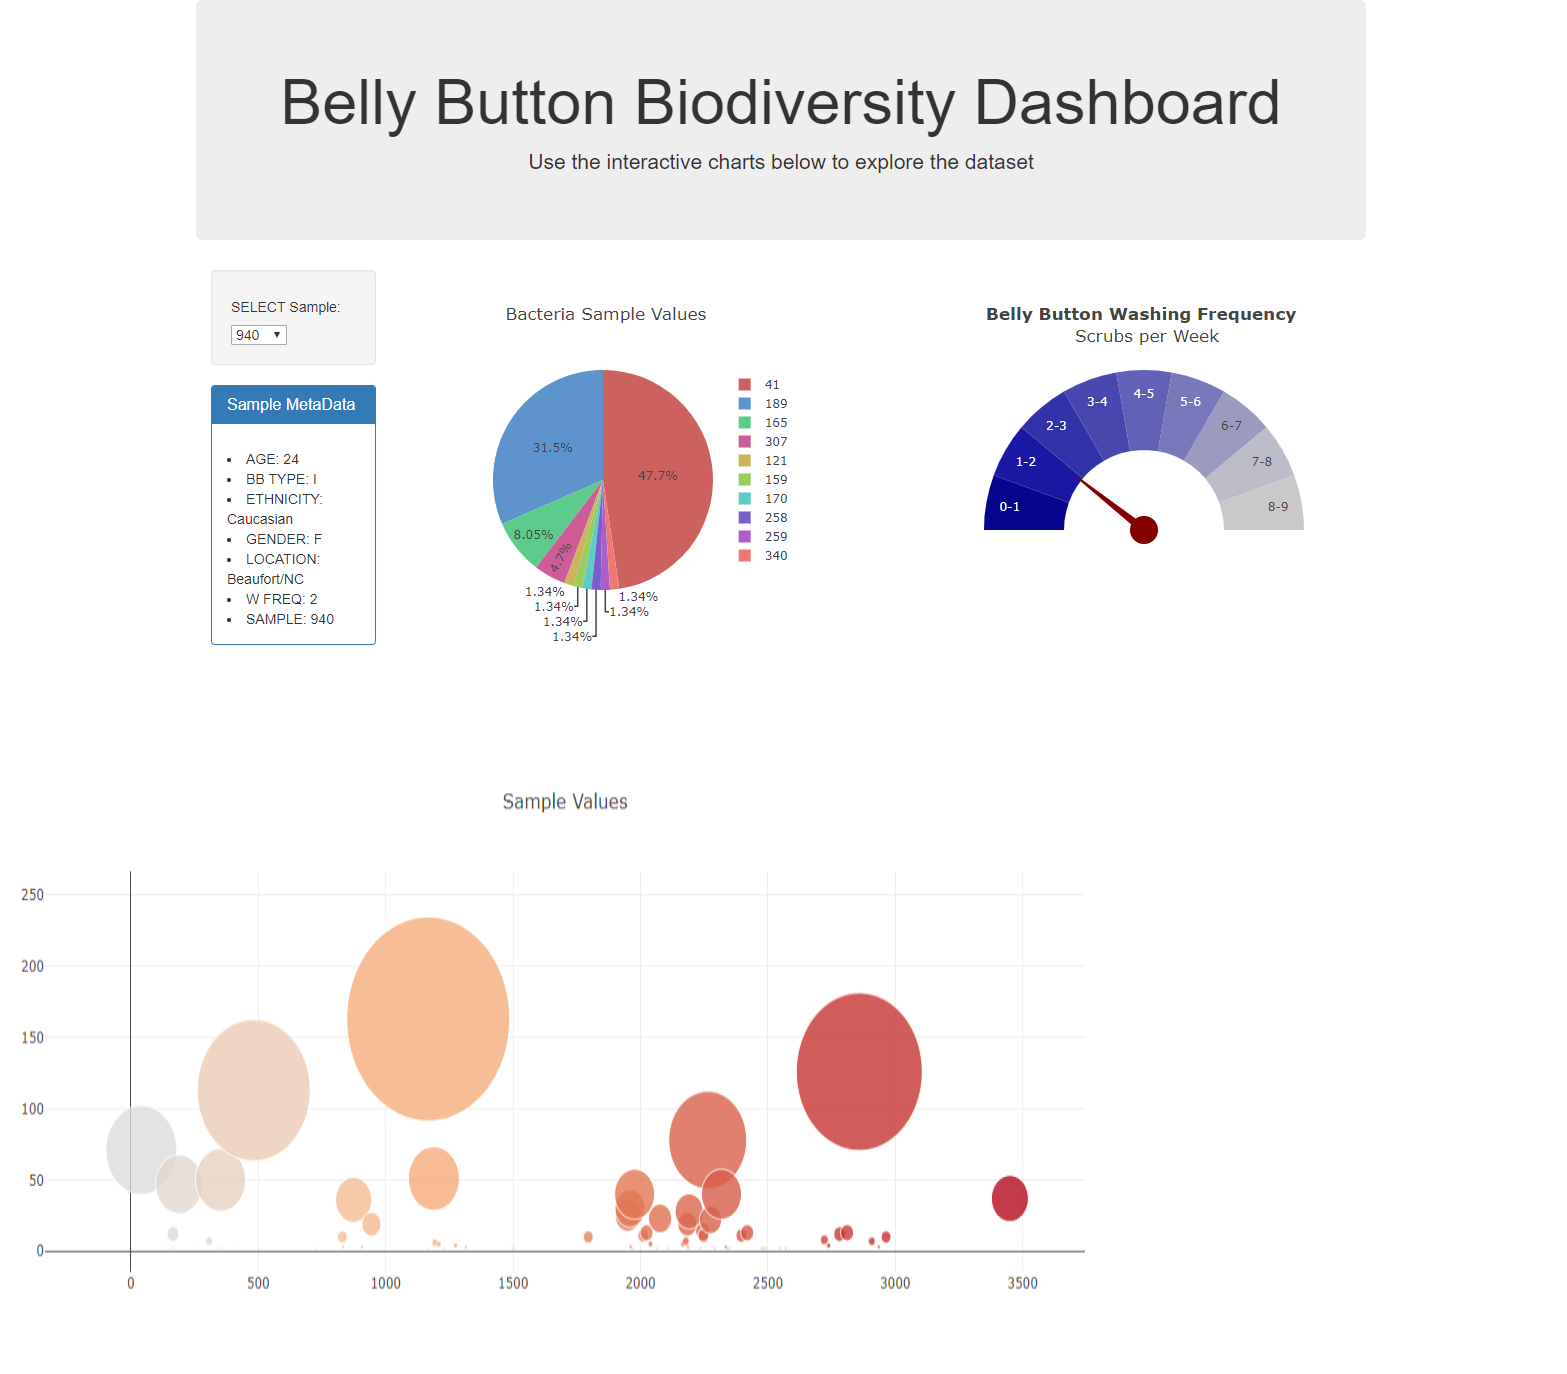
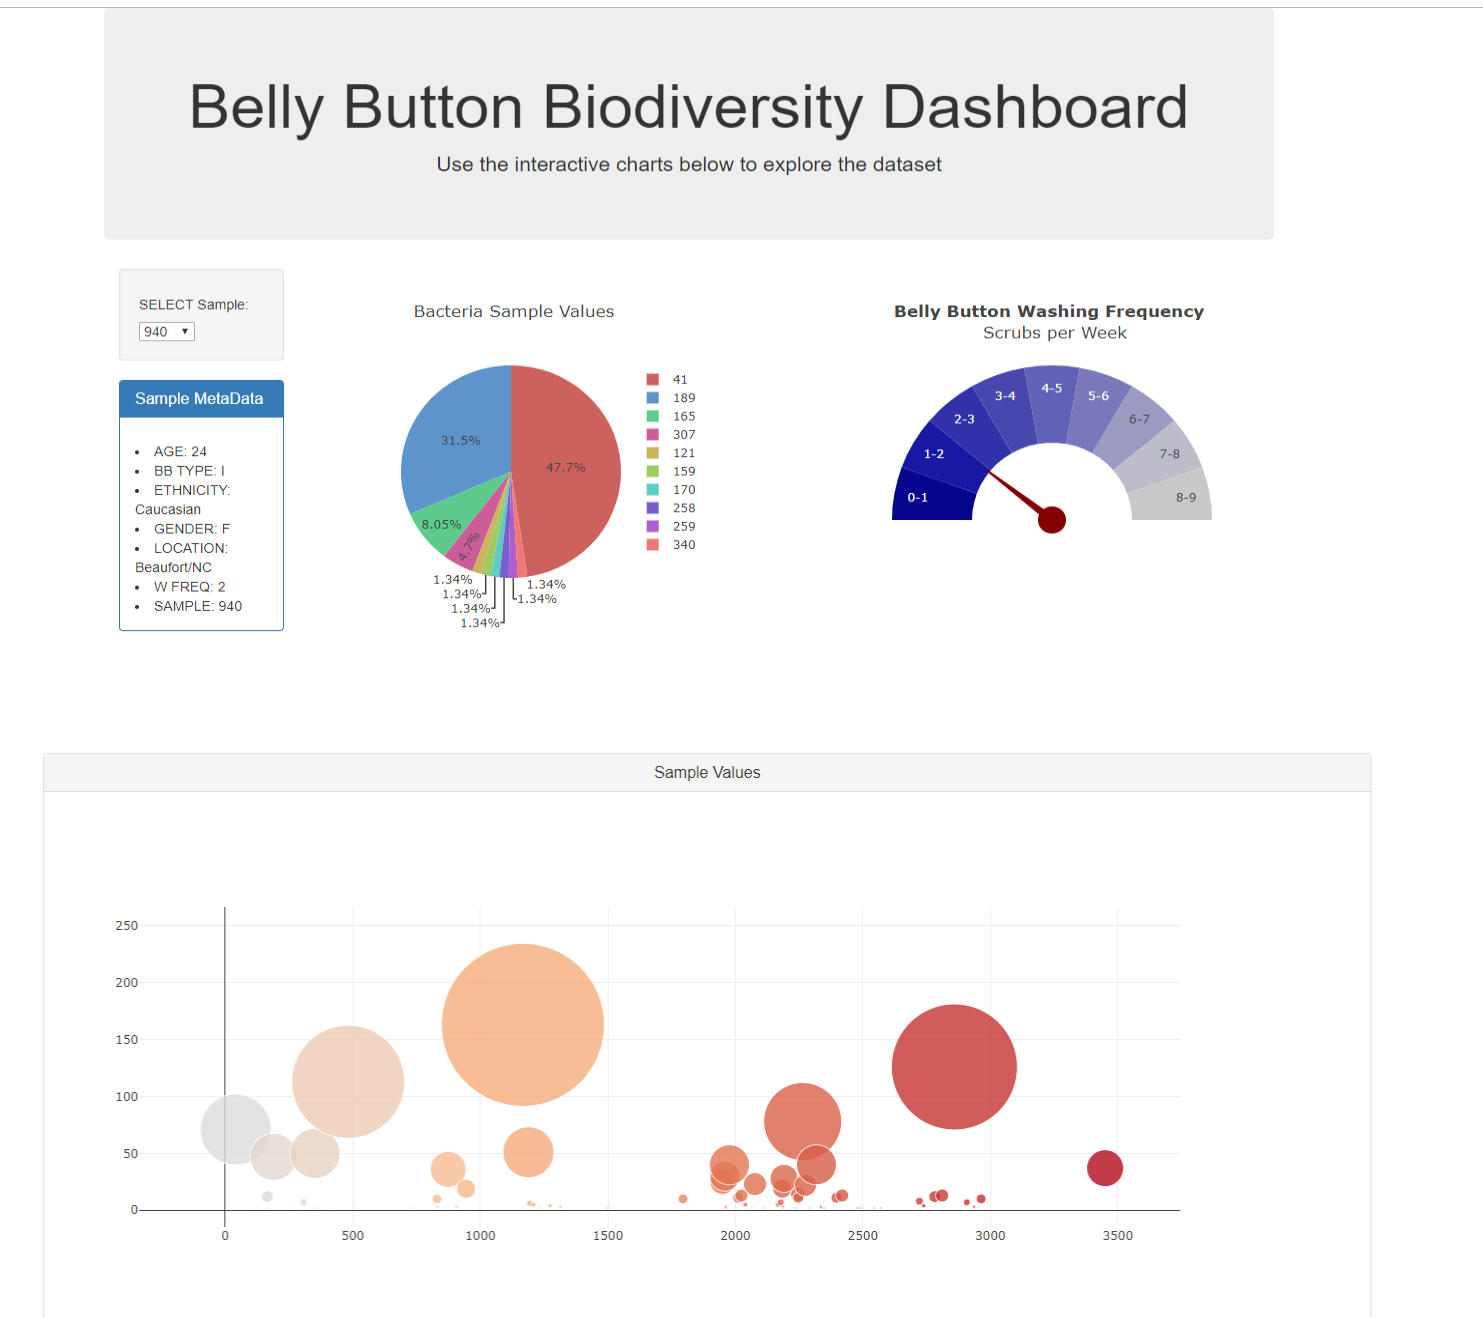
center bubble chart

diff --git a/biodiversity/templates/index.html b/biodiversity/templates/index.html
@@ -44,9 +44,18 @@
     </div>
   </div>
   <div class="row">
-    <div class="col-md-12 col-sm-12">
-      <!-- bubble chart inserted here -->
-      <div id="bubble"></div>
+    <div class="col-md-offset-1 col-md-10 col-sm-offset-1 col-sm-10">
+
+        <div class="panel panel-default">
+            <div class="panel-heading">
+              <h3 class="panel-title text-center">Sample Values</h3>
+            </div>
+            <div class="panel-body">
+                <!-- bubble chart inserted here -->
+                <div id="bubble"></div>
+            </div>
+          </div>
+  
     </div>
   </div>
 

diff --git a/biodiversity/static/js/app.js b/biodiversity/static/js/app.js
@@ -96,7 +96,7 @@ function buildCharts(sample) {
     };
 
   var bubbleLayout = {
-      title: 'Sample Values',
+      // title: 'None',
       height: 500,
       width: 1200,
      };
